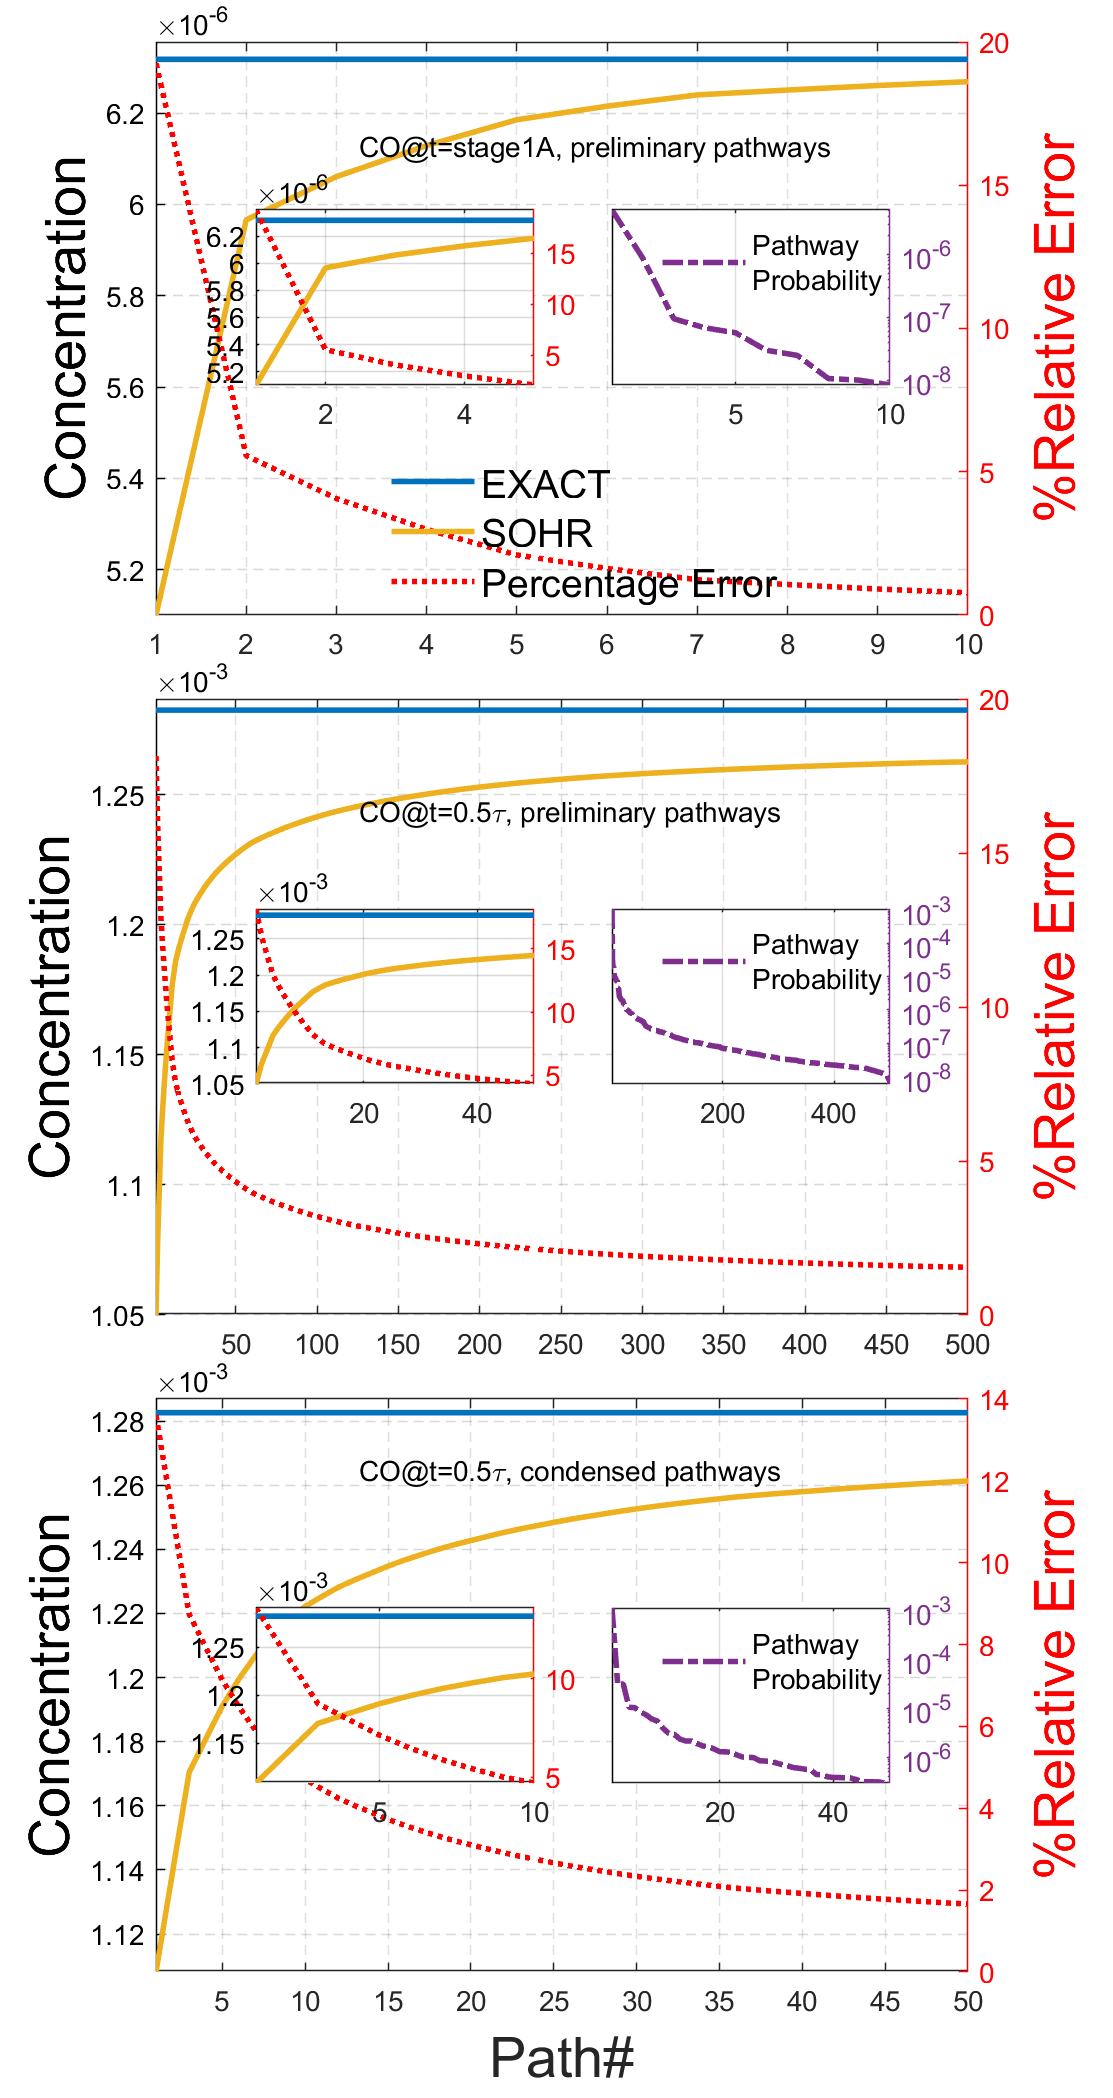
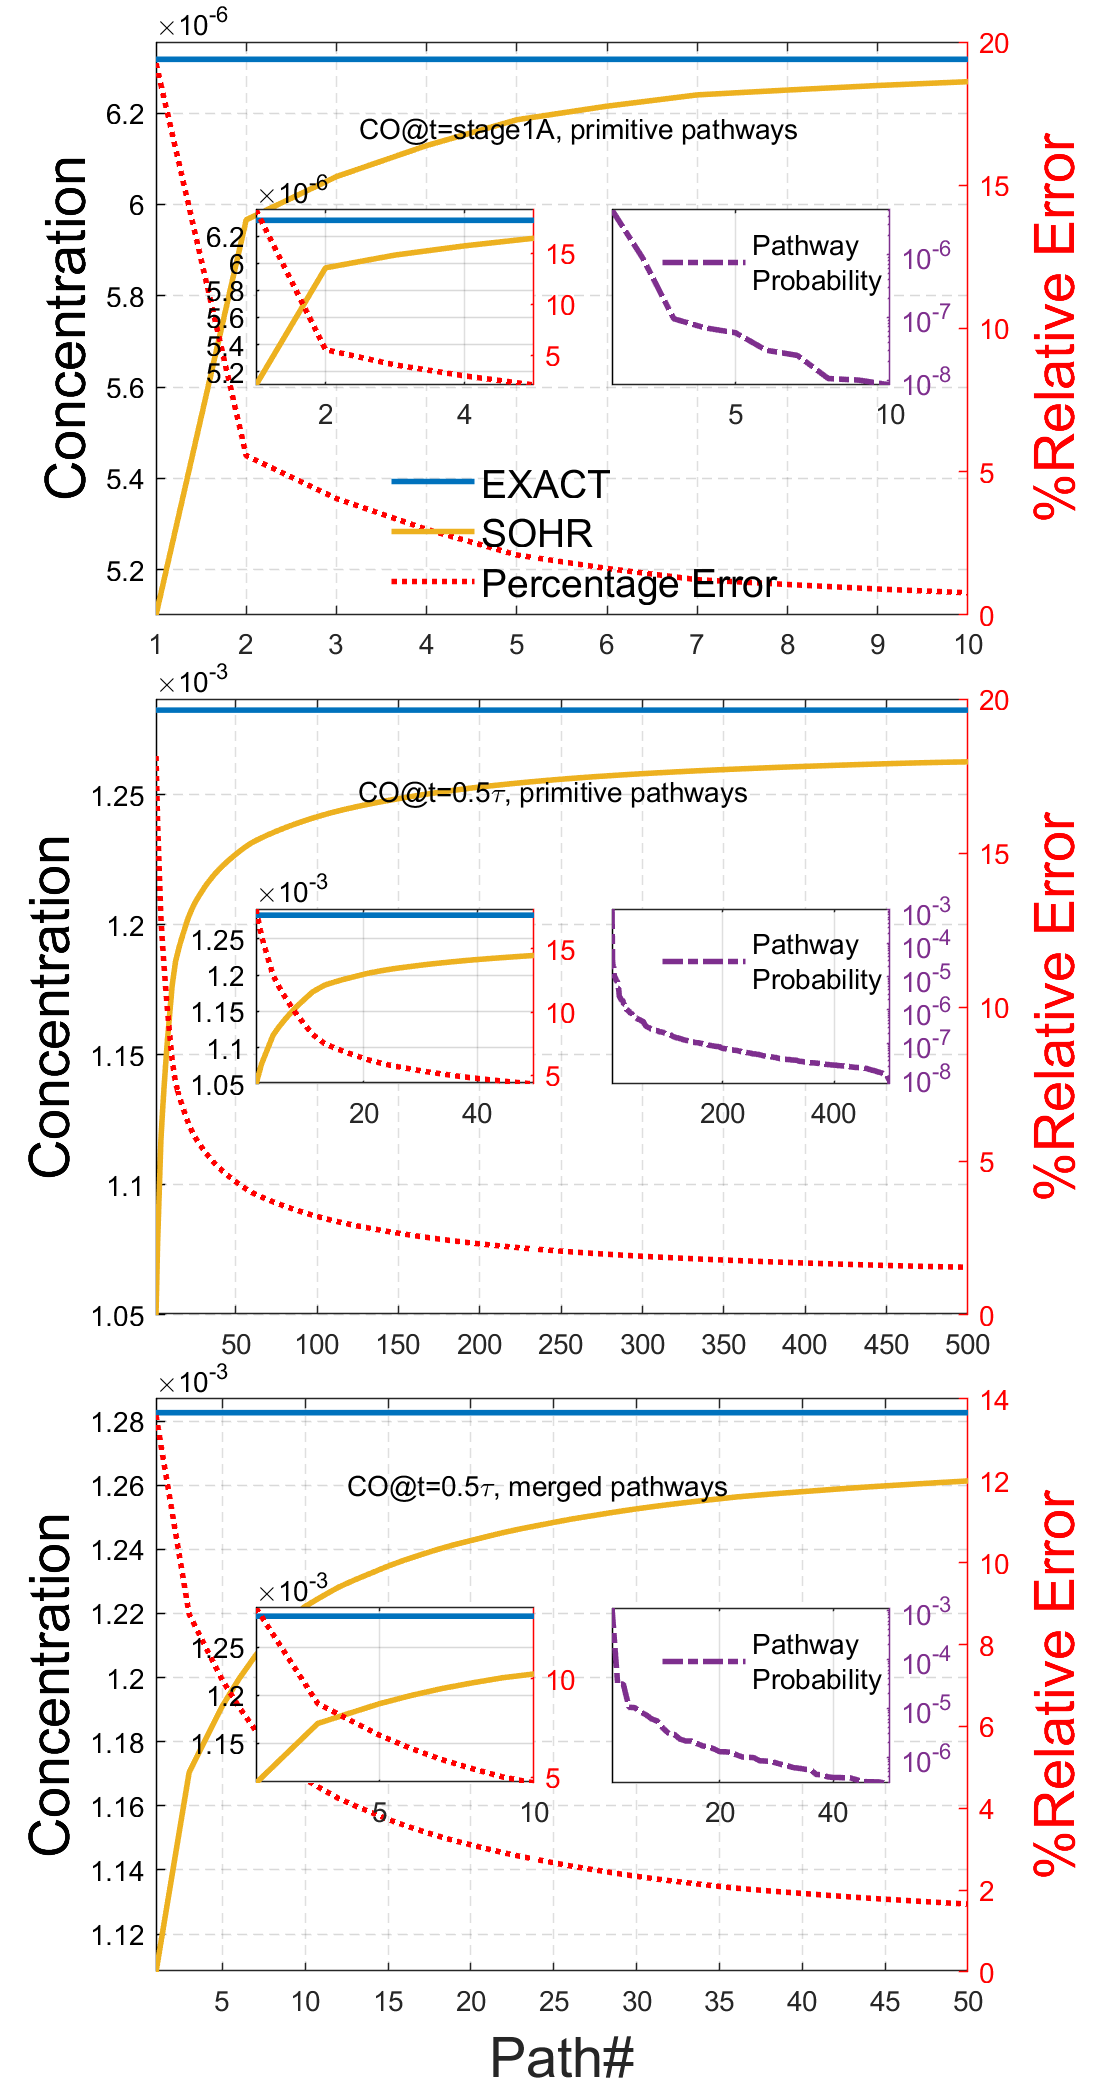
minor

Changed region(s): [[0.336, 0.062, 0.7332, 0.0929], [0.3055, 0.6816, 0.7026, 0.7126], [0.3055, 0.3718, 0.7026, 0.4028]]

diff --git a/theory/misc/trajectory_convergence/trajectory_convergence_3in1_3.m b/theory/misc/trajectory_convergence/trajectory_convergence_3in1_3.m
@@ -1,8 +1,10 @@
 %% global settings
-spe_idx=14;
-spe_name='CO';
+% spe_idx=14;
+% spe_name='CO';
 % spe_idx=17;
 % spe_name='CH_2O';
+spe_idx=59;
+spe_name='C_3H_6';
 tau = '0.777660157519';
 
 %% Current file directory
@@ -25,11 +27,11 @@ end_t1 = '0.25718313951098054';
 n_path1 = '100';
 species_path1 = '';
 %% index, delta, every settings
-end_idx1_1 = 10;
+end_idx1_1 = 100;
 delta1_1 = 1;
-end_idx1_2 = 5;
+end_idx1_2 = 10;
 delta1_2 = 1;
-end_idx1_3 = 10;
+end_idx1_3 = 100;
 delta1_3 = 1;
 
 %% const concentration at a time
@@ -197,11 +199,11 @@ end_t2 = '0.5';
 n_path2 = '500';
 species_path2 = '';
 %% index, delta, every settings
-end_idx2_1 = 500;
+end_idx2_1 = 100;
 delta2_1 = 1;
-end_idx2_2 = 50;
+end_idx2_2 = 10;
 delta2_2 = 1;
-end_idx2_3 = 500;
+end_idx2_3 = 100;
 delta2_3 = 1;
 
 %% const concentration at a time
@@ -370,9 +372,9 @@ end_t3 = '0.5';
 n_path3 = '50';
 species_path3 = 'species_';
 %% index, delta, every settings
-end_idx3_1 = 50;
+end_idx3_1 = 10;
 delta3_1 = 1;
-end_idx3_2 = 10;
+end_idx3_2 = 5;
 delta3_2 = 1;
 end_idx3_3 = 50;
 delta3_3 = 1;

diff --git a/theory/misc/trajectory_convergence/trajectory_convergence_3in1_2.m b/theory/misc/trajectory_convergence/trajectory_convergence_3in1_2.m
@@ -1,8 +1,8 @@
 %% global settings
-spe_idx=14;
-spe_name='CO';
-% spe_idx=17;
-% spe_name='CH_2O';
+% spe_idx=14;
+% spe_name='CO';
+spe_idx=17;
+spe_name='CH_2O';
 tau = '0.777660157519';
 
 %% Current file directory

diff --git a/theory/misc/trajectory_convergence/trajectory_convergence_3.m b/theory/misc/trajectory_convergence/trajectory_convergence_3.m
@@ -12,7 +12,7 @@ delta1 = 1;
 end_idx2 = 10;
 delta2 = 1;
 end_idx3 = 50;
-delta3 = 1;
+delta3 = 1; 
 
 %% Current file directory
 file_dir = fullfile(fileparts(mfilename('fullpath')));
